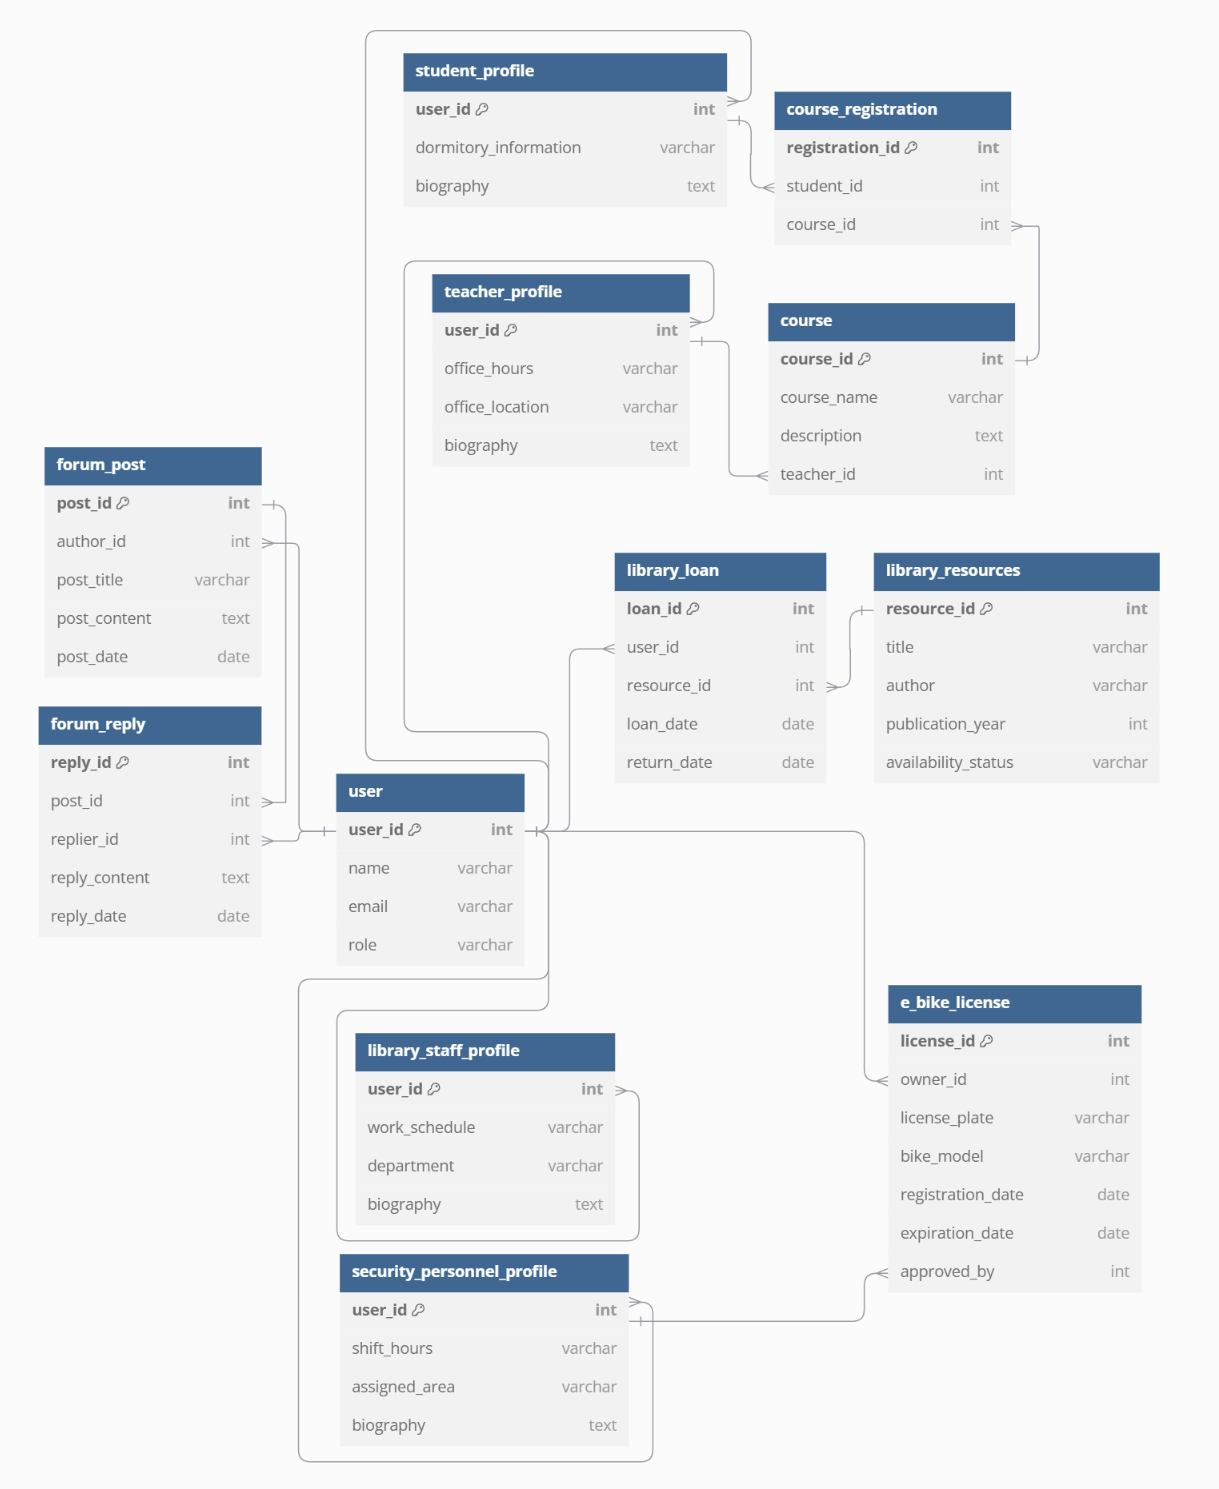
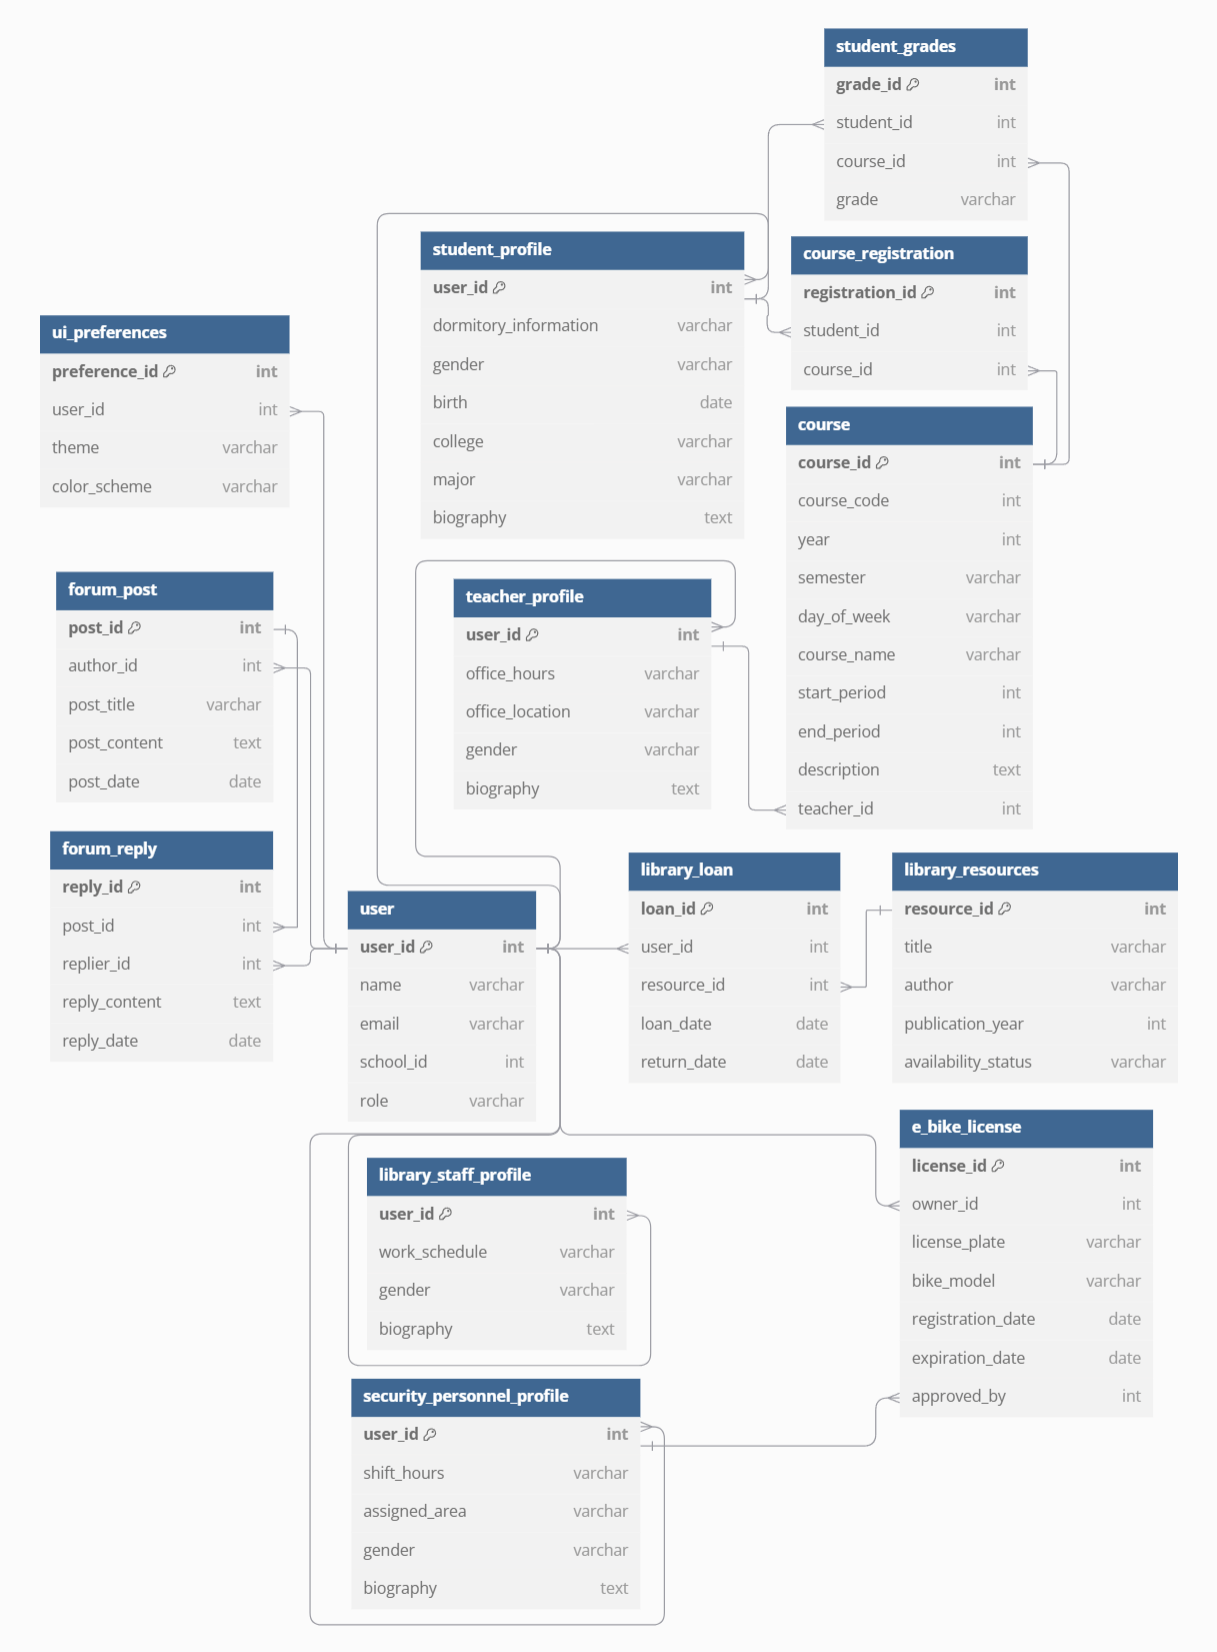
improve document

diff --git a/Project Document/Document.tex b/Project Document/Document.tex
@@ -80,40 +80,38 @@ The primary goal of this project is to design and implement a comprehensive univ
 administrative staff and external visitors. Each user type has specific features tailored to their role:
 
 \begin{itemize}
-  \item \textbf{Students}: Students will have access to their profiles, which display timetables, dormitory information, and enrolled 
-  courses. They can register for courses, interact with teachers and fellow students, borrow library books, and manage their electric 
-  bike licenses.
-  \item \textbf{Teachers}: Teachers will have a profile that shows the courses they teach, office hours, and office location. 
-  They can create and manage courses, interact with students, and participate in the library system by borrowing resources or 
-  creating electric bike licenses
-  \item \textbf{Library staff}: Library staff will have access to features that allow them to manage book inventories, track book 
-  loans, and assist users with book reservations. They can also update library resources and monitor the availability of digital 
+  \item \textbf{Students}: Students will have access to their dashboard, which display timetables, profiles, and
+  enrolled courses. They can register for courses, check their grades, interact with teachers and fellow students, view library
+  collections, and check their own borrowing history, as well as manage their electric bike licenses.
+  \item \textbf{Teachers}: Teachers will have a dashboard that shows the courses they teach, timetable, profiles, and office
+  location. They can create and manage courses, interact with students, view library collections.
+  \item \textbf{Library staff}: Library staff will have access to features that allow them to manage book inventories, track book
+  loans, and assist users with book reservations. They can also update library resources and monitor the availability of digital
   content for users.
-  \item \textbf{Security personnel}: Security personnel will manage electric bike licenses and oversee vehicle registrations on 
-  campus. They will also have access to the profiles of students, teachers, and library staff to approve bike license applications.
-  \item \textbf{Administrative staff}: Administrative users will have full control over the system, including managing user 
+  \item \textbf{Security personnel}: Security personnel will manage electric bike licenses and oversee vehicle registrations on
+  campus.
+  \item \textbf{Administrative staff}: Administrative users will have full control over the system, including managing user
   registrations, overseeing course creation, and handling overall database management to ensure smooth system operation.
-  \item \textbf{External visitors}: Unregistered users will have limited access to parts of the website, such as viewing general 
-  information about the university, available library resources, and public course listings, without the ability to register for 
-  courses or interact with internal functions.  
+  \item \textbf{External visitors}: Unregistered users will have limited access to parts of the website, such as viewing general
+  information about the university, available library resources without the ability  interact with internal functions.
 \end{itemize}
 
 \subsection{Technological Stack Overview}
-The university website will be built using a modern and robust technological stack to ensure reliability, security, and scalability. 
+The university website will be built using a modern and robust technological stack to ensure reliability, security, and scalability.
 The core technologies to be used include:
 \begin{itemize}
     \item \textbf{Frontend}: The user interface will be developed using HTML, CSS, and JavaScript to create an interactive and
      responsive design. Libraries like Bootstrap or Material UI may be incorporated for consistent styling across the website.
-    \item \textbf{Backend}: The server-side logic will be implemented using Flask (Python), providing a flexible framework for 
+    \item \textbf{Backend}: The server-side logic will be implemented using Flask (Python), providing a flexible framework for
     managing user authentication, database interactions, and session management.
-    \item \textbf{Database}: MySQL will be used as the primary database management system to store user profiles, 
-    course data, library resources, electric bike licenses, and forum information. The database will include the design of 
-    tables with appropriate relationships, such as primary and foreign keys, to ensure data integrity and support efficient 
+    \item \textbf{Database}: MySQL will be used as the primary database management system to store user profiles,
+    course data, library resources, electric bike licenses, and forum information. The database will include the design of
+    tables with appropriate relationships, such as primary and foreign keys, to ensure data integrity and support efficient
     querying and management.
-    \item \textbf{Security}: The website will ensure secure handling of sensitive data, such as passwords, using encryption 
+    \item \textbf{Security}: The website will ensure secure handling of sensitive data, such as passwords, using encryption
     mechanisms. Proper user authentication and authorization will be implemented to protect user privacy and data access.
 \end{itemize}
-This technology stack has been chosen for its simplicity, flexibility, and suitability for the scale of the university website project, 
+This technology stack has been chosen for its simplicity, flexibility, and suitability for the scale of the university website project,
 ensuring a smooth user experience and maintainability.
 
 \newpage
@@ -139,15 +137,15 @@ ensuring a smooth user experience and maintainability.
 \section{Database Design}
 
 \subsection{Entity-Relationship Diagrams}
-The database for the university website currently includes several key tables: \texttt{user}, 
-\texttt{student\_profile}, \texttt{teacher\_profile}, \texttt{library\_staff\_profile}, 
-\texttt{security\_personnel\_profile}, \texttt{course}, \texttt{course\_registration}, \texttt{library\_resources}, 
-\texttt{library\_loan}, \texttt{e\_bike\_license}, \texttt{forum\_post} and \texttt{forum\_reply}.\\ \\ 
-These tables represent the foundational structure for managing users and their interactions with the system, 
-such as course enrollment and profile management. To support additional functionalities outlined in the introduction, 
-tables have been added to manage library resources, electric bike licenses, and forum discussions. 
-These expansions ensure that students, teachers, library staff, and security personnel can effectively interact 
-with the system in their respective roles. \\ \\ 
+The database for the university website currently includes several key tables: \texttt{user},
+\texttt{student\_profile}, \texttt{teacher\_profile}, \texttt{library\_staff\_profile},
+\texttt{security\_personnel\_profile}, \texttt{course}, \texttt{course\_registration}, \texttt{library\_resources},
+\texttt{library\_loan}, \texttt{e\_bike\_license}, \texttt{forum\_post} and \texttt{forum\_reply}.\\ \\
+These tables represent the foundational structure for managing users and their interactions with the system,
+such as course enrollment and profile management. To support additional functionalities outlined in the introduction,
+tables have been added to manage library resources, electric bike licenses, and forum discussions.
+These expansions ensure that students, teachers, library staff, and security personnel can effectively interact
+with the system in their respective roles. \\ \\
 The Entity-Relationship Diagrams are on the next page:
 
 \begin{figure}[htbp]
@@ -167,57 +165,79 @@ Below are the current and proposed tables, along with their respective fields an
         \item \texttt{user\_id} (Primary Key)
         \item \texttt{name}
         \item \texttt{email}
+        \item \texttt{school\_id}
         \item \texttt{role} (e.g., student, teacher, library staff, security personnel)
     \end{itemize}
-    
+
     \item \texttt{student\_profile}: Stores additional information specific to students. Fields include:
     \begin{itemize}
         \item \texttt{user\_id} (Foreign Key referencing \texttt{user})
         \item \texttt{dormitory\_information}
+        \item \texttt{gender}
+        \item \texttt{birth}
+        \item \texttt{college}
+        \item \texttt{major}
         \item \texttt{biography}
     \end{itemize}
-    
+
     \item \texttt{teacher\_profile}: Stores additional information specific to teachers. Fields include:
     \begin{itemize}
         \item \texttt{user\_id} (Foreign Key referencing \texttt{user})
         \item \texttt{office\_hours}
         \item \texttt{office\_location}
+        \item \texttt{gender}
         \item \texttt{biography}
     \end{itemize}
-    
+
     \item \texttt{library\_staff\_profile}: Stores additional information specific to library staff. Fields include:
     \begin{itemize}
         \item \texttt{user\_id} (Foreign Key referencing \texttt{user})
         \item \texttt{work\_schedule}
-        \item \texttt{department}
+        \item \texttt{gender}
         \item \texttt{biography}
     \end{itemize}
+
+    \clearpage  % 强制换页，并将后续内容移到图片的下一页
 
     \item \texttt{security\_personnel\_profile}: Stores additional information specific to security personnel. Fields include:
     \begin{itemize}
         \item \texttt{user\_id} (Foreign Key referencing \texttt{user})
         \item \texttt{shift\_hours}
         \item \texttt{assigned\_area}
+        \item \texttt{gender}
         \item \texttt{biography}
     \end{itemize}
-    
-    \clearpage  % 强制换页，并将后续内容移到图片的下一页
+
 
     \item \texttt{course}: Contains information about the courses offered. Fields include:
     \begin{itemize}
         \item \texttt{course\_id} (Primary Key)
+        \item \texttt{course\_code}
+        \item \texttt{year}
+        \item \texttt{semester}
+        \item \texttt{day\_of\_week}
         \item \texttt{course\_name}
+        \item \texttt{start\_period}
+        \item \texttt{end\_period}
         \item \texttt{description}
         \item \texttt{teacher\_id} (Foreign Key referencing \texttt{teacher\_profile})
     \end{itemize}
-    
+
     \item \texttt{course\_registration}: Tracks student registrations for courses. Fields include:
     \begin{itemize}
         \item \texttt{registration\_id} (Primary Key)
         \item \texttt{student\_id} (Foreign Key referencing \texttt{student\_profile})
         \item \texttt{course\_id} (Foreign Key referencing \texttt{course})
     \end{itemize}
-    
+
+    \item \texttt{student\_grades}: Stores student's grade for each course. Fields include:
+    \begin{itemize}
+        \item \texttt{grade\_id} (Primary Key)
+        \item \texttt{student\_id} (Foreign Key referencing \texttt{student\_profile})
+        \item \texttt{course\_id} (Foreign Key referencing \texttt{course})
+        \item \texttt{grade} (The grade received by the student)
+    \end{itemize}
+
     % 新增的表格
     \item \texttt{library\_resources}: Manages library books and resources. Fields include:
     \begin{itemize}
@@ -227,7 +247,7 @@ Below are the current and proposed tables, along with their respective fields an
         \item \texttt{publication\_year}
         \item \texttt{availability\_status}
     \end{itemize}
-    
+
     \item \texttt{library\_loan}: Tracks book loans by students and other users. Fields include:
     \begin{itemize}
         \item \texttt{loan\_id} (Primary Key)
@@ -236,7 +256,7 @@ Below are the current and proposed tables, along with their respective fields an
         \item \texttt{loan\_date}
         \item \texttt{return\_date}
     \end{itemize}
-    
+
     \item \texttt{e\_bike\_license}: Manages electric bike licenses for students, teachers, and library staff. Fields include:
     \begin{itemize}
         \item \texttt{license\_id} (Primary Key)
@@ -248,8 +268,6 @@ Below are the current and proposed tables, along with their respective fields an
         \item \texttt{approved\_by} (Foreign Key referencing \texttt{security\_personnel\_profile})
     \end{itemize}
 
-    \clearpage  % 强制换页，并将后续内容移到图片的下一页
-
     \item \texttt{forum\_post}: Stores user-created posts for the forum. Fields include:
     \begin{itemize}
         \item \texttt{post\_id} (Primary Key)
@@ -258,7 +276,7 @@ Below are the current and proposed tables, along with their respective fields an
         \item \texttt{post\_content}
         \item \texttt{post\_date}
     \end{itemize}
-    
+
     \item \texttt{forum\_reply}: Stores user replies to forum posts. Fields include:
     \begin{itemize}
         \item \texttt{reply\_id} (Primary Key)
@@ -267,19 +285,40 @@ Below are the current and proposed tables, along with their respective fields an
         \item \texttt{reply\_content}
         \item \texttt{reply\_date}
     \end{itemize}
+
+    \item \texttt{ui\_preferences}: Stores user preferences for the UI interface. Fields include:
+    \begin{itemize}
+        \item \texttt{preference\_id} (Primary Key)
+        \item \texttt{user\_id} (Foreign Key referencing \texttt{user})
+        \item \texttt{theme} (Preferred UI theme, e.g., light, dark)
+        \item \texttt{color\_scheme} (Preferred color scheme, e.g., blue, green)
+    \end{itemize}
 \end{itemize}
 
 \subsection{Primary and Foreign Key Design}
 Each table contains a primary key that uniquely identifies each record. Foreign keys are used to establish relationships between users and the entities they interact with. For example:
 \begin{itemize}
-    \item The \texttt{user\_id} field in \texttt{student\_profile}, \texttt{teacher\_profile}, \texttt{library\_staff\_profile}, and \texttt{security\_personnel\_profile} links the profiles to the core \texttt{user} table.
-    \item The \texttt{course\_id} field in \texttt{course\_registration} links students to the courses they have enrolled in.
-    \item The \texttt{license\_id} in the \texttt{e\_bike\_license} table allows students, teachers, and library staff to register electric bikes, which are approved by security personnel.
-    \item The \texttt{post\_id} and \texttt{reply\_id} in the \texttt{forum\_post} and \texttt{forum\_reply} tables link forum posts and their replies to the users who created them.
+    \item The \texttt{user\_id} field in \texttt{student\_profile}, \texttt{teacher\_profile},
+    \texttt{library\_staff\_profile}, and \texttt{security\_personnel\_profile} links the
+    profiles to the core \texttt{user} table.
+    \item The \texttt{course\_id} field in \texttt{course\_registration} and \texttt{student\_grades} links
+    students to the courses they have enrolled in and the grades they have received.
+    \item The \texttt{license\_id} in the \texttt{e\_bike\_license} table allows students
+    to register electric bikes, which are approved by security personnel.
+    \item The \texttt{post\_id} and \texttt{reply\_id} in the \texttt{forum\_post} and \texttt{forum\_reply}
+    tables link forum posts and their replies to the users who created them.
+    \item The \texttt{user\_id} field in the \texttt{ui\_preferences} table links users to their personalized
+    interface settings, such as theme, font size, and color scheme.
 \end{itemize}
 
 \subsection{Data Population Strategy}
-The initial data for the \texttt{user}, \texttt{course}, and \texttt{library\_resources} tables will be seeded by administrators during development and testing phases. As users interact with the system, data will be dynamically added to the \texttt{course\_registration}, \texttt{library\_loan}, \texttt{e\_bike\_license}, \texttt{forum\_post}, and \texttt{forum\_reply} tables. The system will ensure that all data remains up-to-date and consistent across these entities.
+The initial data for the \texttt{user}, \texttt{course}, and \texttt{library\_resources}
+tables will be seeded by administrators during development and testing phases. As users
+interact with the system, data will be dynamically added to the \texttt{course\_registration},
+\texttt{student\_grades}, \texttt{library\_loan}, \texttt{e\_bike\_license}, \texttt{forum\_post},
+\texttt{forum\_reply}, and \texttt{ui\_preferences} tables. The system will ensure that all data
+remains up-to-date and consistent across these entities, allowing users to track their course
+registrations, grades, library loans, and personalized interface preferences.
 
 \newpage
 \section{Web Page Design}
